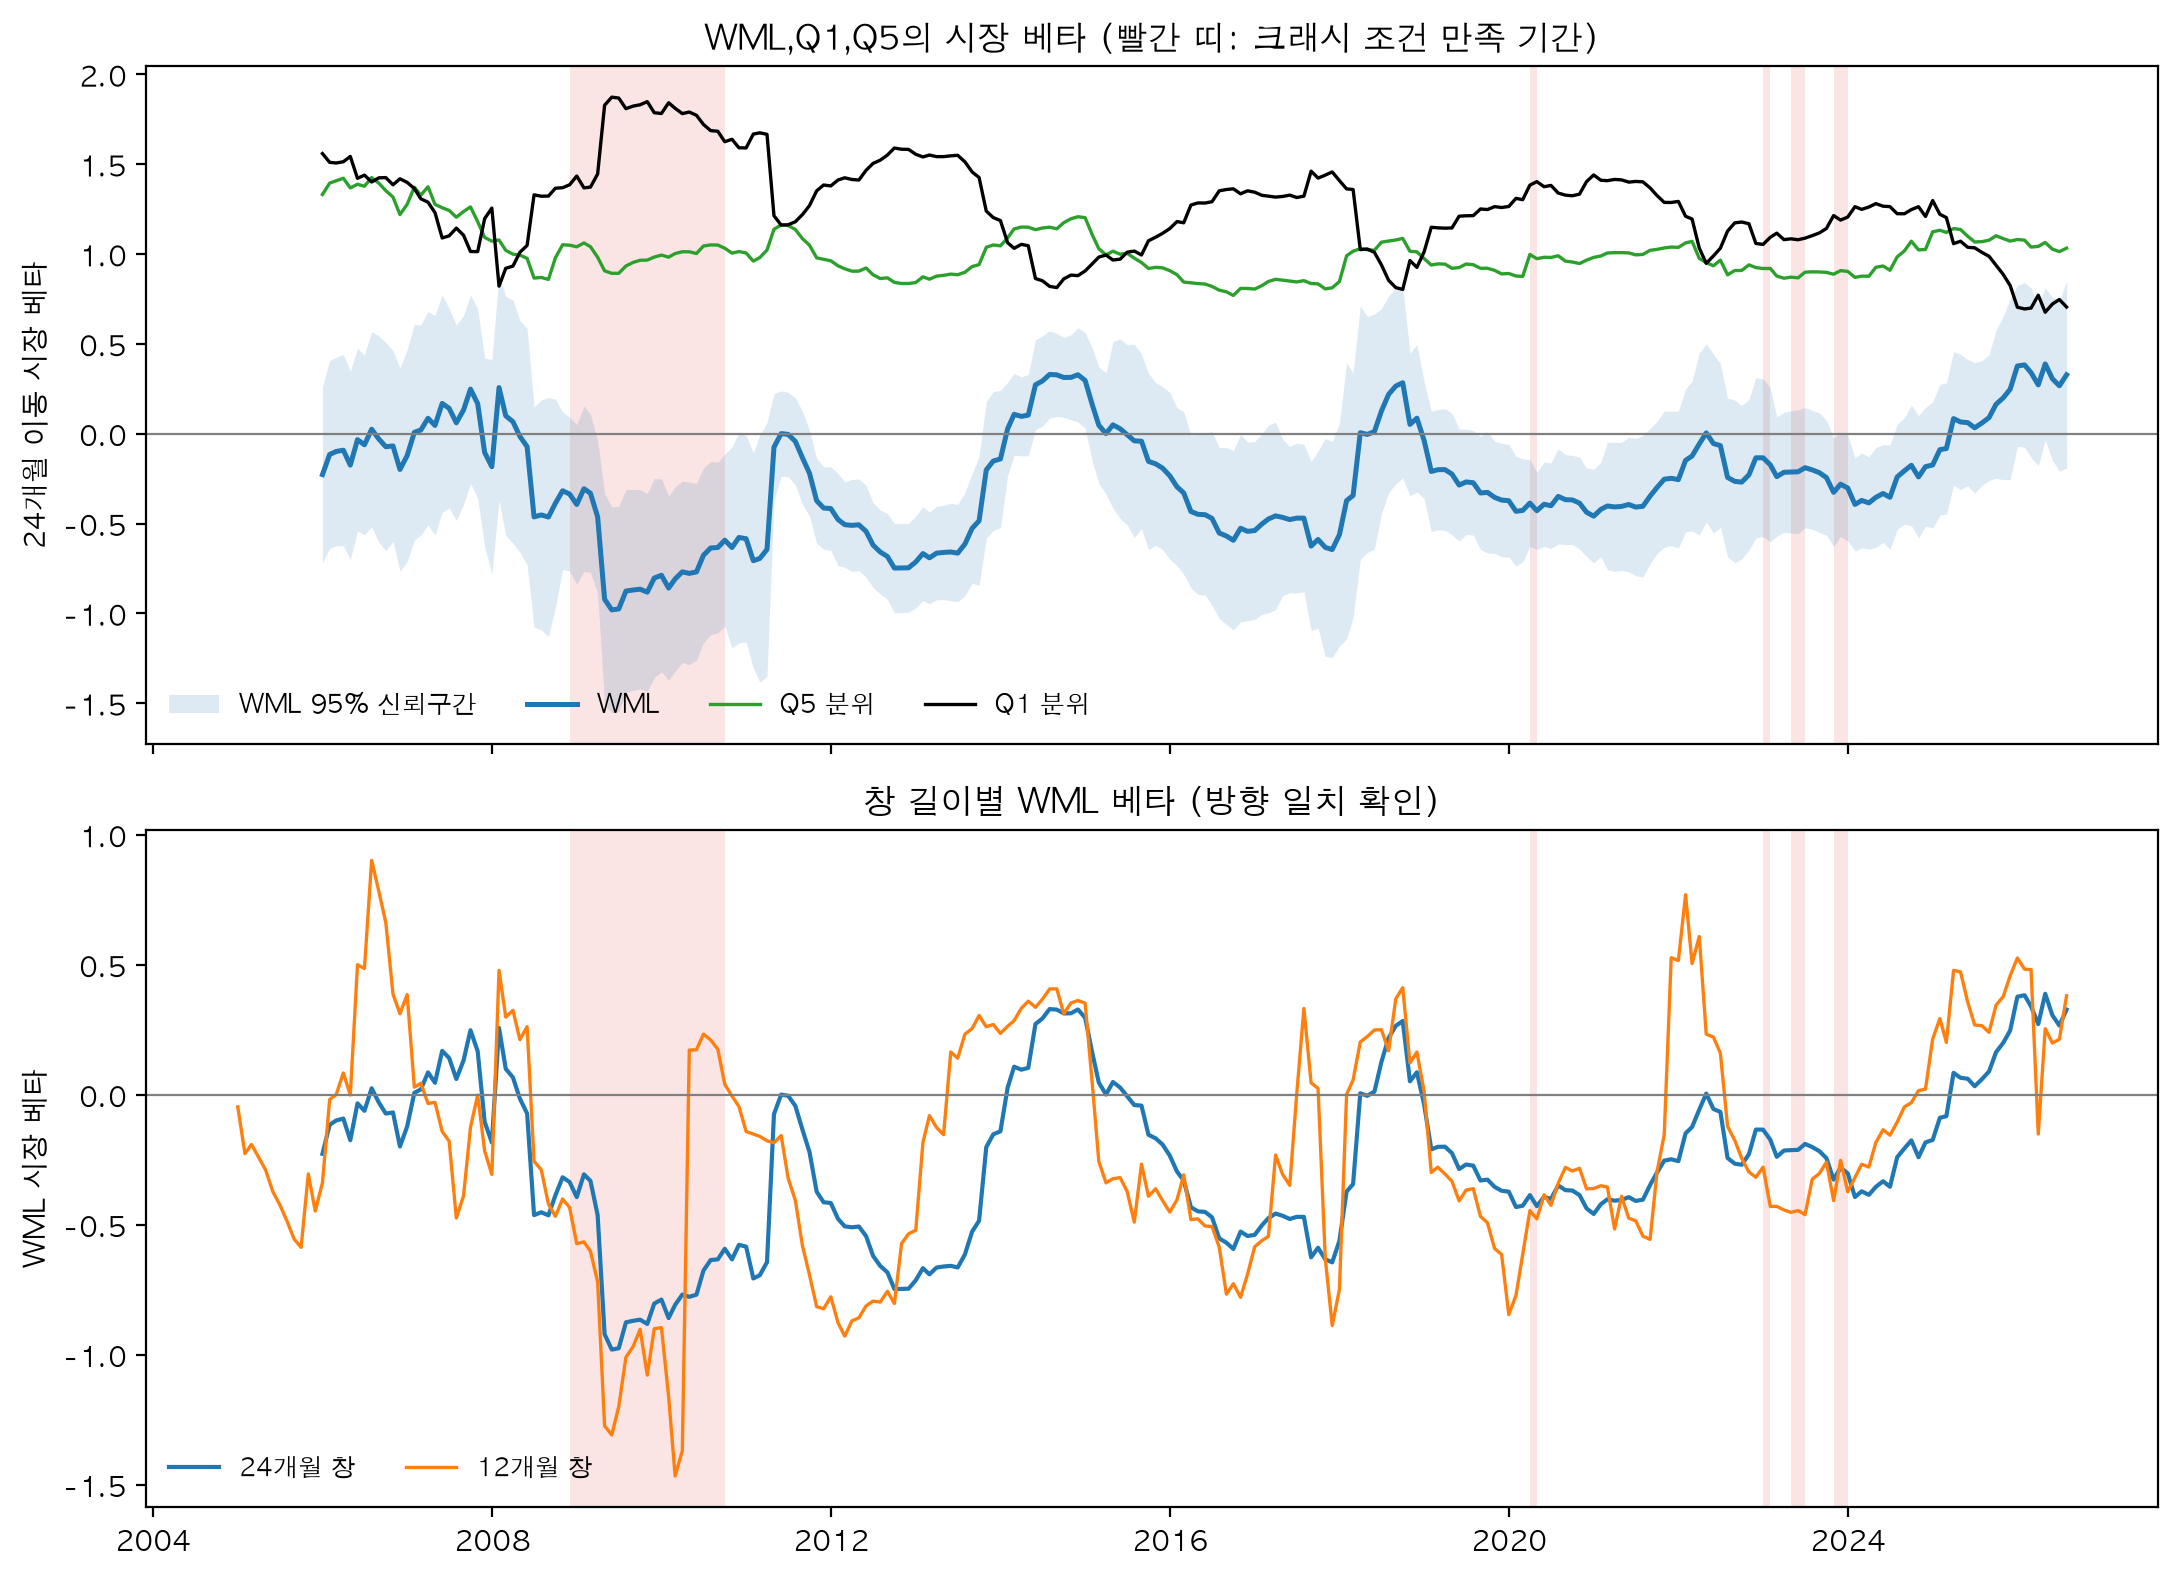
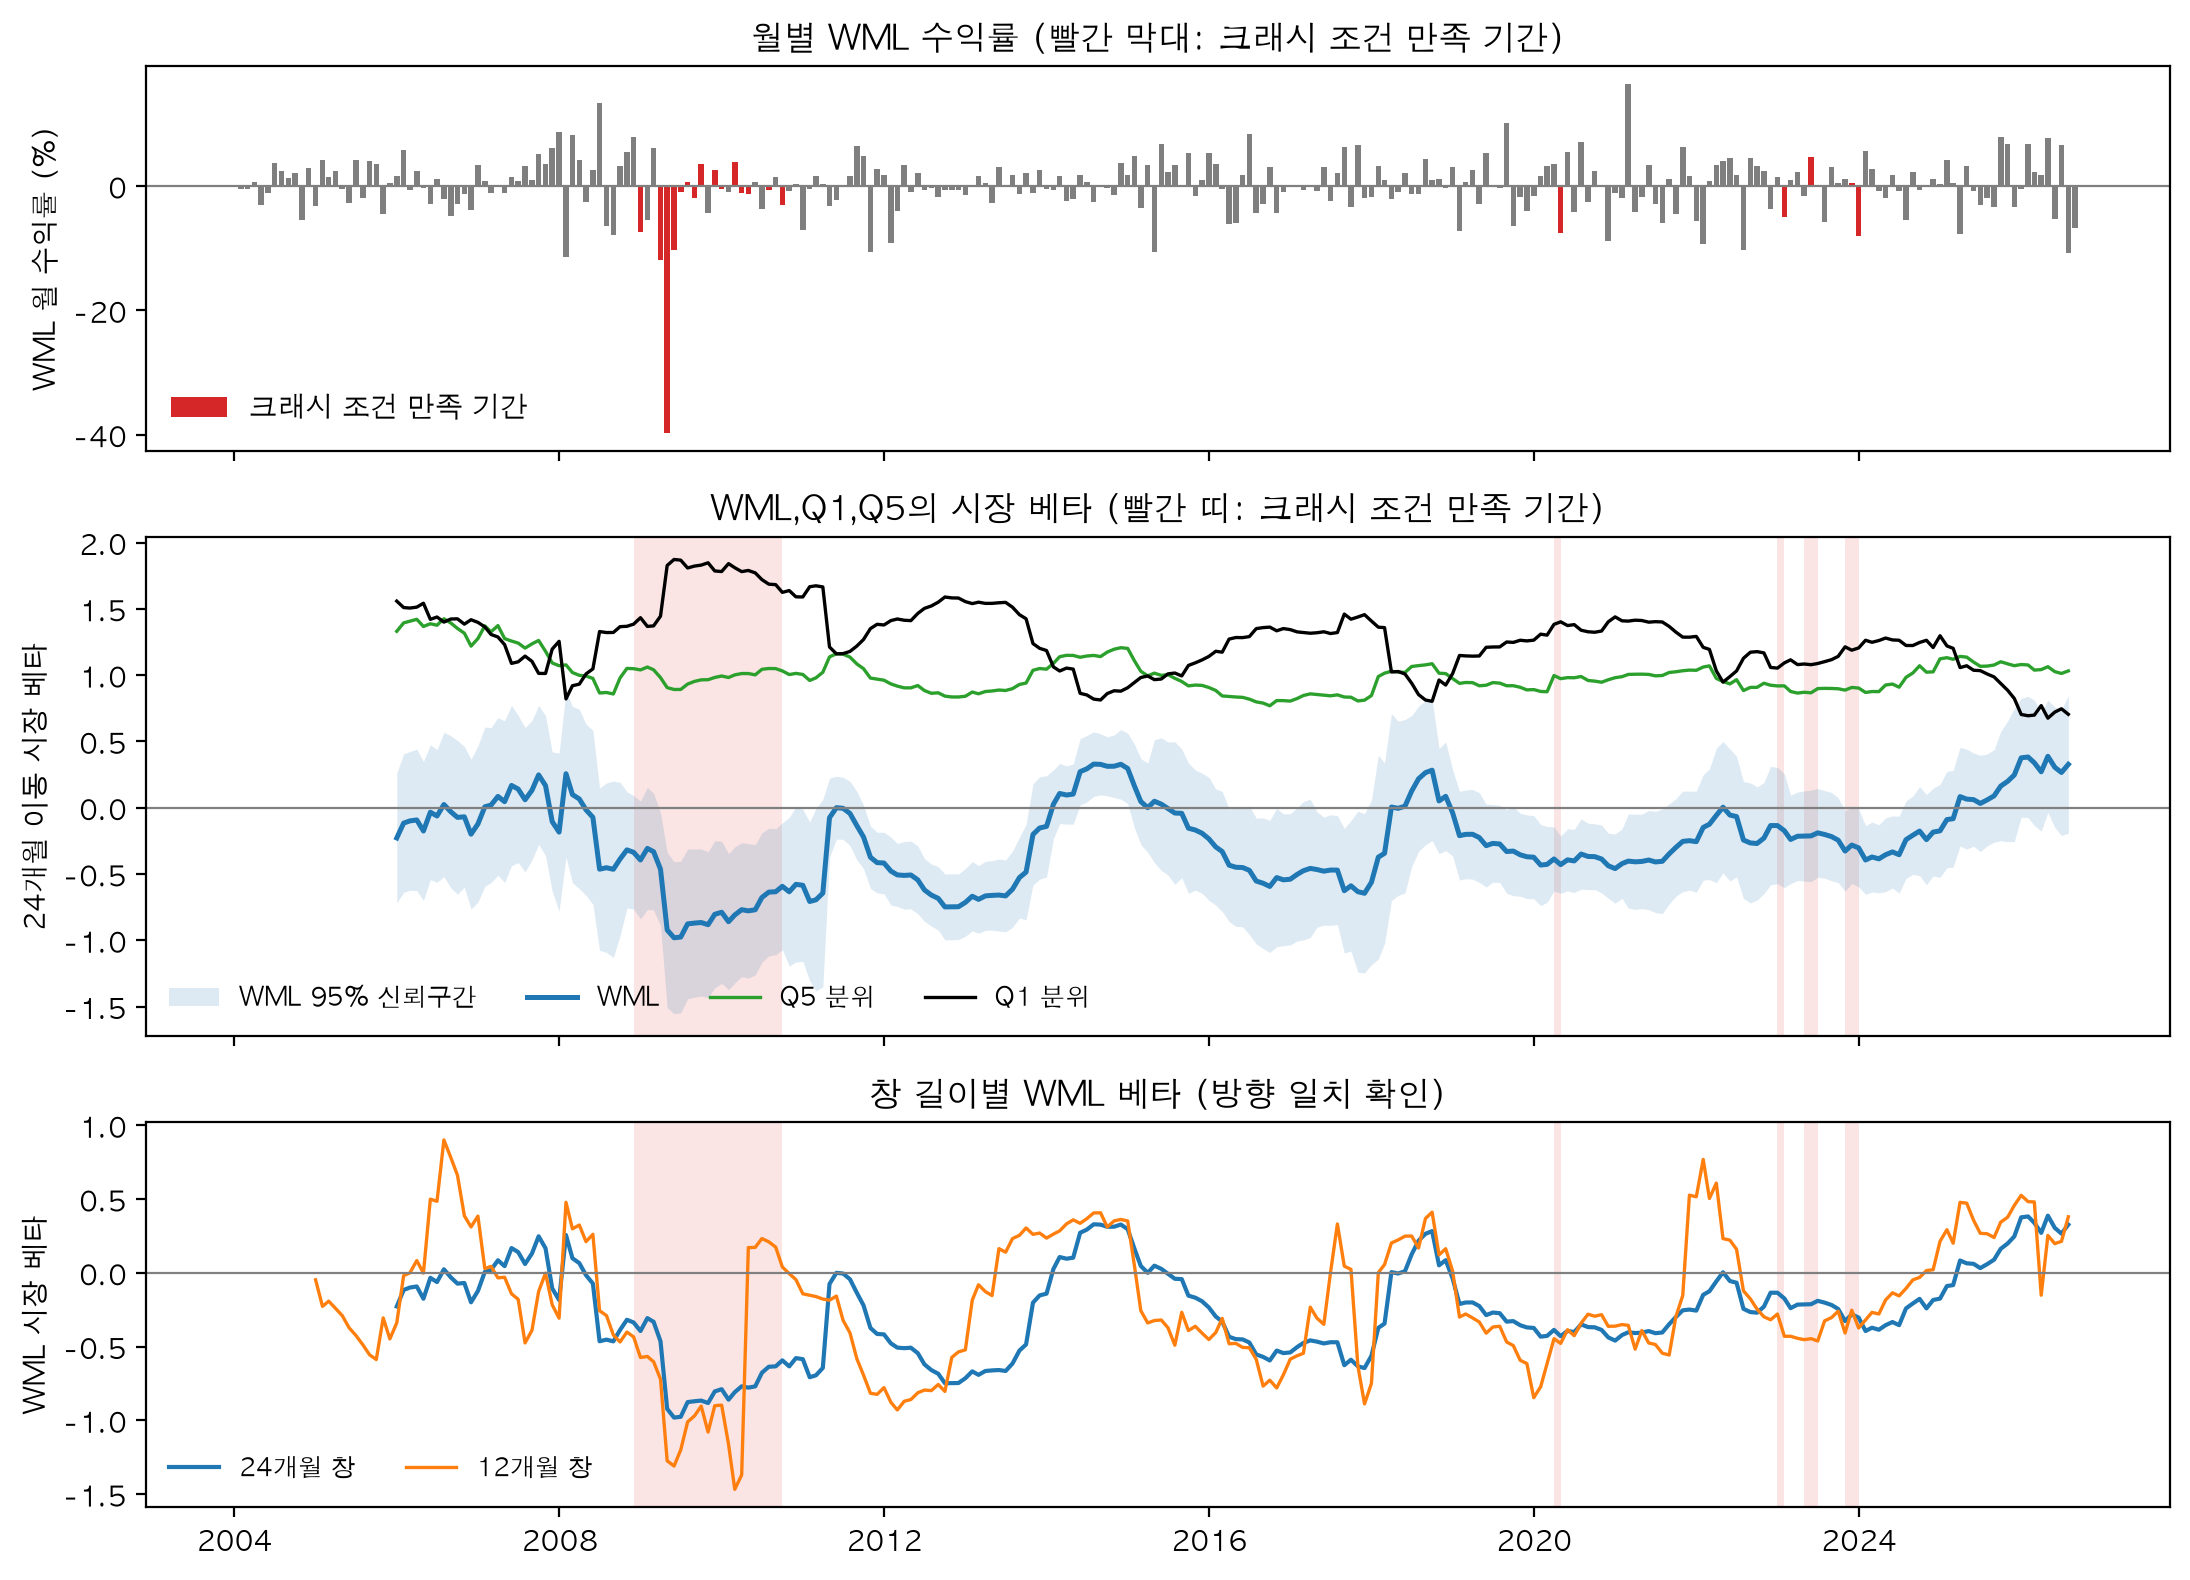
그래프 작업

diff --git a/notebooks/10_backtest.py b/notebooks/10_backtest.py
@@ -2,7 +2,9 @@
 import sys
 import pandas as pd
 from pathlib import Path
-
+import matplotlib.pyplot as plt
+plt.rcParams["font.family"] = "AppleGothic"
+plt.rcParams["axes.unicode_minus"] = False
 try:
     ROOT = Path(__file__).resolve().parents[1]
 except NameError:
@@ -45,6 +47,7 @@ ret_q2_m = (ret_fwd * w_q2).sum(axis = 1, min_count = 1)
 ret_q3_m = (ret_fwd * w_q3).sum(axis = 1,min_count = 1)
 ret_q4_m = (ret_fwd * w_q4).sum(axis = 1,min_count = 1)
 ret_q5_m = (ret_fwd * w_q5).sum(axis = 1,min_count = 1)
+
 
 ## 동일가중 평균 포트폴리오의 수익률 (전략 : 6-1 모멘텀)
 w_wml = w_q5 - w_q1
@@ -167,3 +170,36 @@ if(UNIVERSE == "pit") :
     ret_wml_m.to_pickle(WML_CACHE)
     ret_q5_m.to_pickle(Q5_CACHE)
     ret_q1_m.to_pickle(Q1_CACHE)
+
+# %% ---------------------------- 10. 그림 ----------------------------
+cum_real = cum_growth.copy()
+cum_real.index = cum_real.index + pd.offsets.MonthEnd(1)
+high_x = high_date + pd.offsets.MonthEnd(1)
+low_x = mdd_date + pd.offsets.MonthEnd(1)
+
+q_names = ["Q1", "Q2", "Q3", "Q4", "Q5"]
+q_rets = [ret_q1_m, ret_q2_m, ret_q3_m, ret_q4_m, ret_q5_m]
+q_mean = [r.mean() * 100 for r in q_rets]
+q_ci = [1.96 * r.std() / r.count() ** 0.5 * 100 for r in q_rets]
+
+fig, axes = plt.subplots(1, 2, figsize = (14, 4.8), gridspec_kw = {"width_ratios": [2, 1]})
+ax_cum, ax_q = axes
+ax_cum.plot(cum_real, color = "tab:blue")
+ax_cum.axhline(1, color = "gray", linewidth = 0.8)
+ax_cum.scatter([high_x, low_x], [cum_growth.loc[high_date], cum_growth.loc[mdd_date]], color = "red", zorder = 3)
+ax_cum.text(high_x, cum_growth.loc[high_date], f"  고점 {high_x:%Y-%m}", va = "bottom")
+ax_cum.text(low_x, cum_growth.loc[mdd_date], f"  저점 {low_x:%Y-%m} (MDD {mdd:.1%})", va = "top")
+ax_cum.set_yscale("log")
+ax_cum.minorticks_off()
+ax_cum.set_yticks([0.5, 0.7, 1.0, 1.4])
+ax_cum.set_yticklabels(["0.5", "0.7", "1.0", "1.4"])
+ax_cum.set_title("WML 누적 (1원 기준, 로그 축)")
+
+ax_q.bar(q_names, q_mean, yerr = q_ci, color = "tab:gray", capsize = 4)
+ax_q.axhline(0, color = "gray", linewidth = 0.8)
+ax_q.set_ylabel("월평균 수익률 (%)")
+ax_q.set_title("분위별 월평균 (수염: 95% 신뢰구간)")
+
+fig.tight_layout()
+fig.savefig(ROOT / "figs/existence.png", dpi = 200, bbox_inches = "tight")
+plt.show()

diff --git a/notebooks/30_crash.py b/notebooks/30_crash.py
@@ -185,9 +185,20 @@ print(leg_tbl.to_string(float_format="{:+.2%}".format))
 
 # %% ------------------------------ 9. 그림 ---------------------------------
 
-fig, axes = plt.subplots(2, 1, figsize=(11, 8), sharex=True)
+fig, axes = plt.subplots(3, 1, figsize=(11, 8), sharex=True,gridspec_kw={"height_ratios":[1 , 1.3 ,1]})
 
 ax = axes[0]
+for start, end in zip(crash_events["min"], crash_events["max"]):
+    ax.axvspan(start - pd.offsets.MonthEnd(1), end, color = "tab:red", alpha = 0.12, linewidth = 0)
+ax.bar(ret_wml_m.index, ret_wml_m * 100, width = 25, color = "tab:gray")
+ax.bar(crash_tbl.index, crash_tbl["wml_m"] * 100, width = 25, color = "tab:red", label = "크래시 조건 만족 기간")
+ax.axhline(0, color = "gray", linewidth = 0.8)
+ax.set_ylabel("WML 월 수익률 (%)")
+ax.set_title("월별 WML 수익률 (빨간 막대: 크래시 조건 만족 기간)")
+ax.legend(loc = "lower left", frameon = False)
+
+
+ax = axes[1]
 for start, end in zip(crash_events["min"], crash_events["max"]):
     ax.axvspan(start - pd.offsets.MonthEnd(1), end, color="tab:red", alpha=0.12, lw=0)
 ax.fill_between(beta.index, beta - 1.96 * beta_se, beta + 1.96 * beta_se,
@@ -200,7 +211,7 @@ ax.set_ylabel("24개월 이동 시장 베타")
 ax.set_title("WML,Q1,Q5의 시장 베타 (빨간 띠: 크래시 조건 만족 기간)")
 ax.legend(loc="lower left", ncol=4, fontsize=9, frameon=False)
 
-ax = axes[1]
+ax = axes[2]
 for start, end in zip(crash_events["min"], crash_events["max"]):
     ax.axvspan(start - pd.offsets.MonthEnd(1), end, color="tab:red", alpha=0.12, lw=0)
 ax.plot(beta, color="tab:blue", lw=1.5, label="24개월 창")
